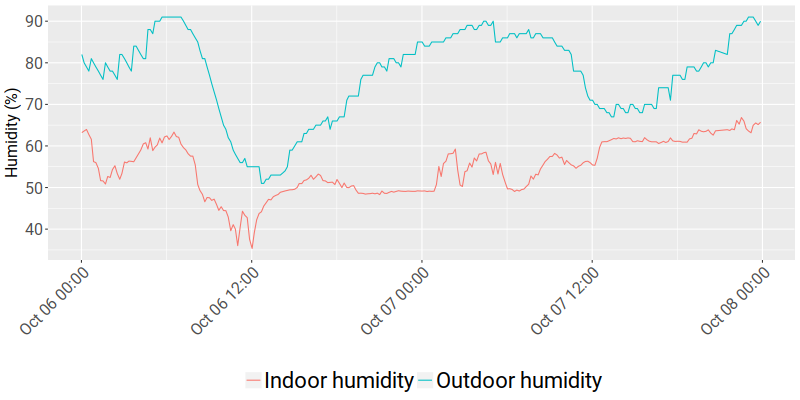
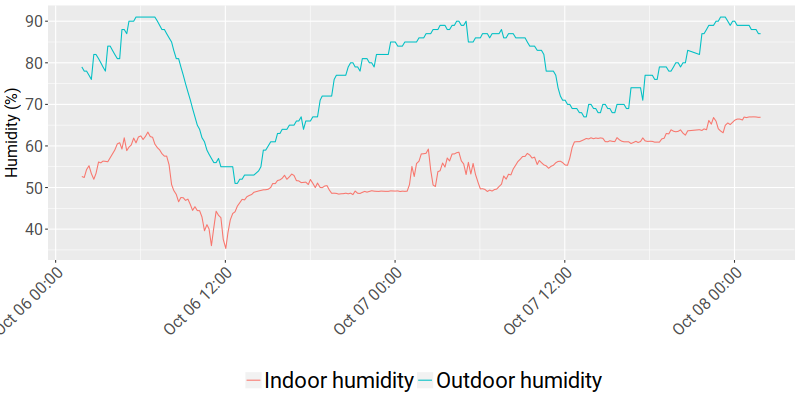
Update live temperature on site

diff --git a/temperature.js b/temperature.js
@@ -1,1 +1,1 @@
-document.write("<h4>Inside Temperature: 24.03°C</h4><h4>Outside Temperature: 19.78°C</h4><h4>Fermenter 1 Temperature: 22.88°C</h4><h4>Fermenter 2 Temperature: 22.81°C</h4><h4>Inside Humidity: 65.7%</h4><h4>Outside Humidity: 90.0%</h4><br>Last update: 2017-10-07 23:52:05");
+document.write("<h4>Inside Temperature: 24.05°C</h4><h4>Outside Temperature: 20.43°C</h4><h4>Fermenter 1 Temperature: 22.75°C</h4><h4>Fermenter 2 Temperature: 22.81°C</h4><h4>Inside Humidity: 66.9%</h4><h4>Outside Humidity: 87.0%</h4><br>Last update: 2017-10-08 01:50:39");
